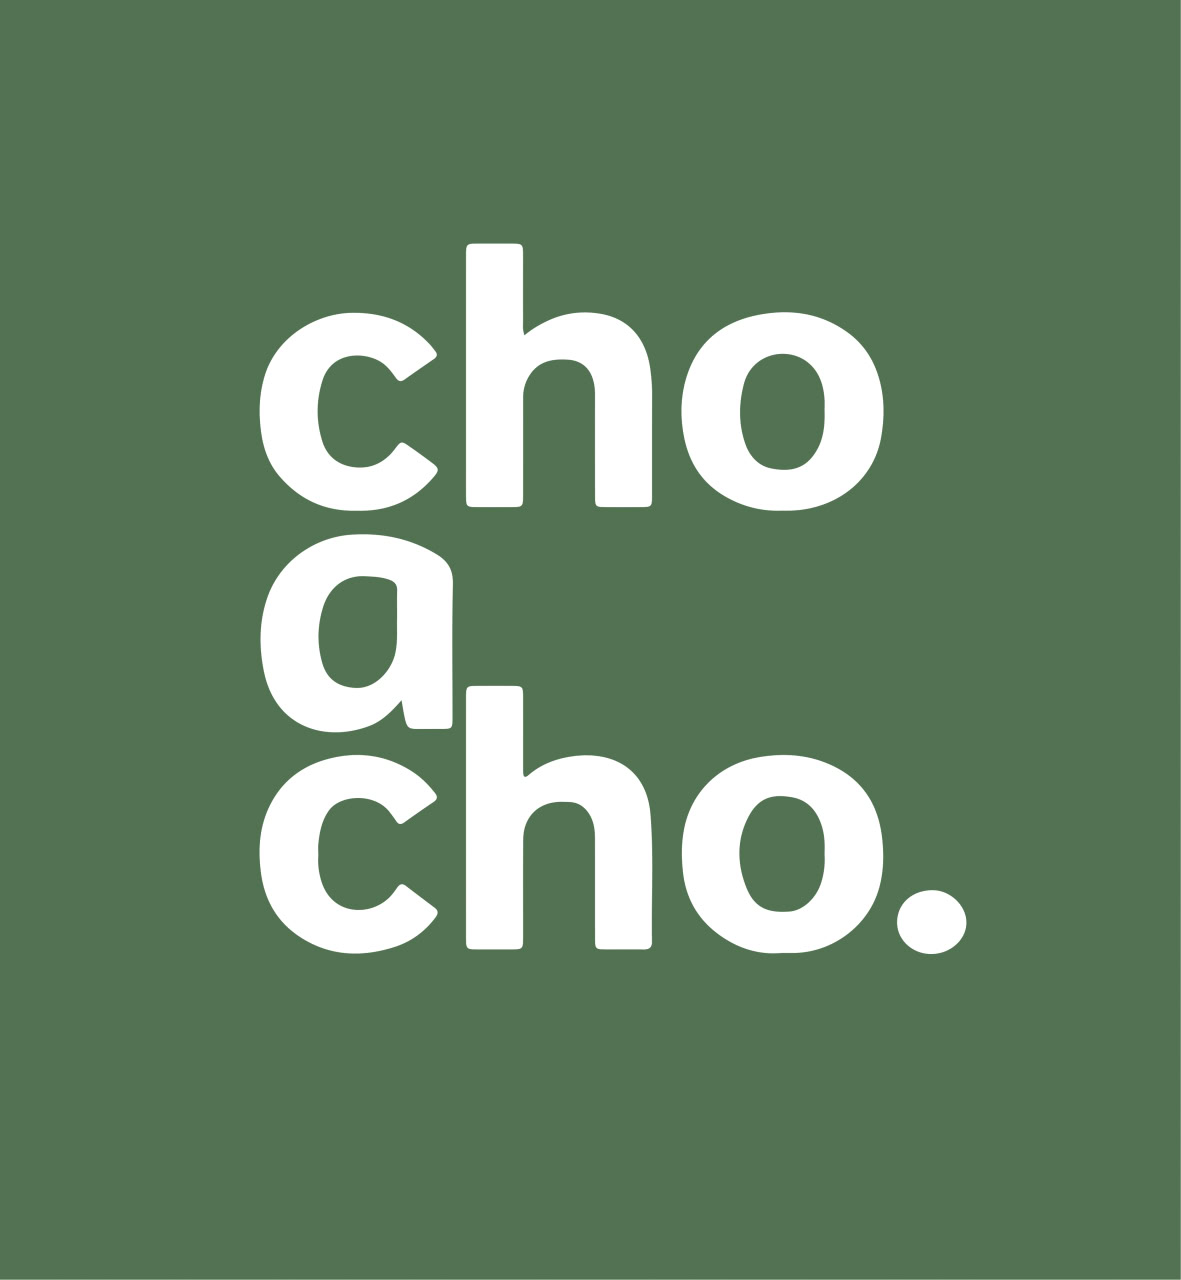
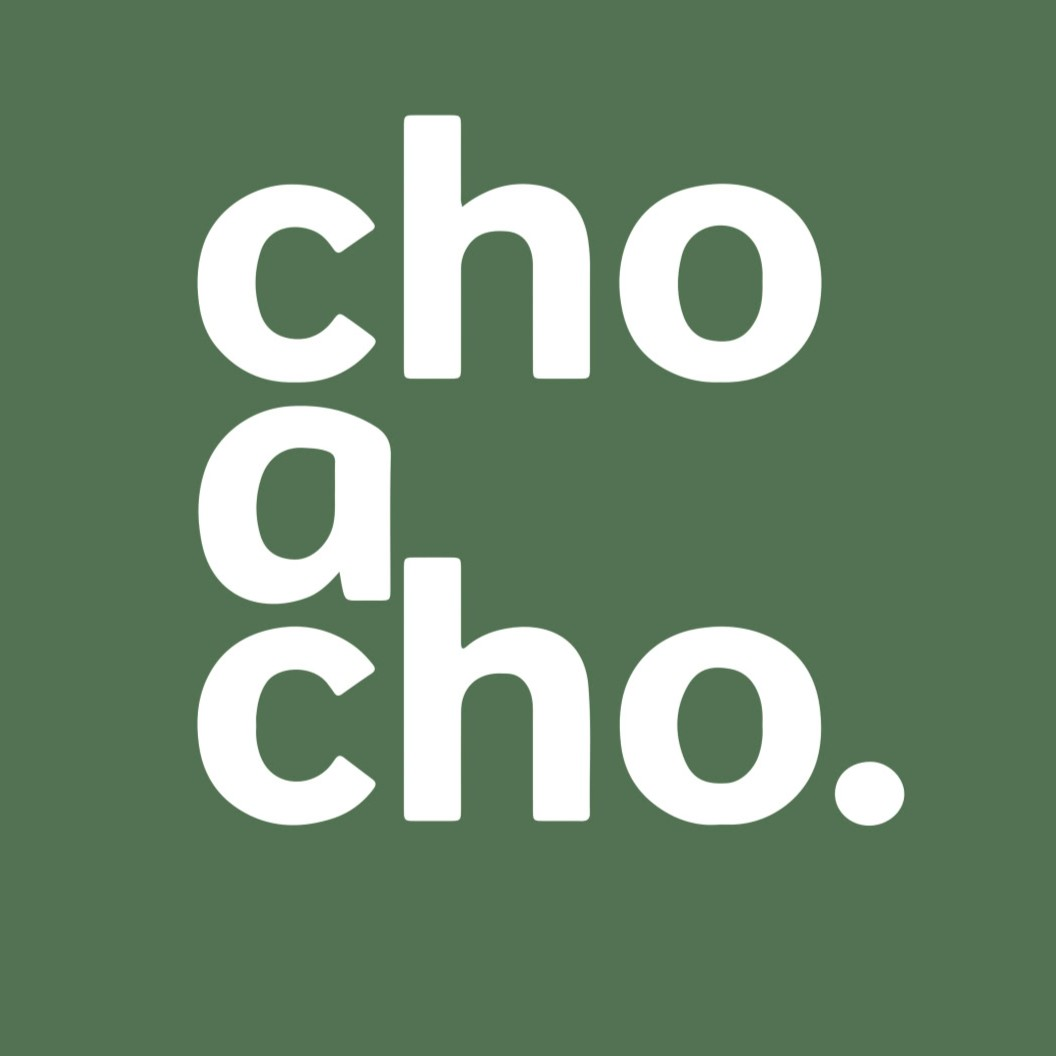
Open Graph settings

Changed region(s): [[0.1875, 0.0938, 0.7812, 0.7812], [0.5, 0.5625, 0.875, 0.7812]]

diff --git a/src/app/layout.tsx b/src/app/layout.tsx
@@ -49,6 +49,19 @@ export default function RootLayout({
         <meta name="application-name" content="CHO A CHO" />
         <meta name="msapplication-TileColor" content="#ffffff" />
         <meta name="msapplication-config" content="/browserconfig.xml" />
+        <meta name="viewport" content="width=device-width, initial-scale=1.0" />
+        <meta property="og:title" content="CHO A CHO Store" />
+        <meta
+          property="og:description"
+          content="Delicious handmade chocolate from Ukraine – explore our exclusive CHO A CHO collections."
+        />
+        <meta
+          property="og:image"
+          content="https://www.choacho.com.ua/og-image.jpg"
+        />
+        <meta property="og:url" content="https://www.choacho.com.ua/" />
+        <meta property="og:site_name" content="CHO A CHO" />
+        <meta property="og:type" content="website" />
 
         <link rel="icon" href="/favicon.ico?v=2" />
         <link

diff --git a/src/config/next-seo.config.ts b/src/config/next-seo.config.ts
@@ -1,0 +1,26 @@
+const defaultSEO = {
+  title: "CHO A CHO Store",
+  description: "Online store of CHO A CHO brand of chocolate",
+  canonical: "https://www.choacho.com.ua",
+  openGraph: {
+    type: "website",
+    locale: "en_US",
+    url: "https://www.choacho.com.ua",
+    site_name: "CHO A CHO Store",
+    images: [
+      {
+        url: "https://www.choacho.com.ua/og-image.jpg",
+        width: 1056,
+        height: 1056,
+        alt: "CHO A CHO Store",
+      },
+    ],
+  },
+  twitter: {
+    handle: "@choacho",
+    site: "@choacho",
+    cardType: "summary_large_image",
+  },
+};
+
+export default defaultSEO;
